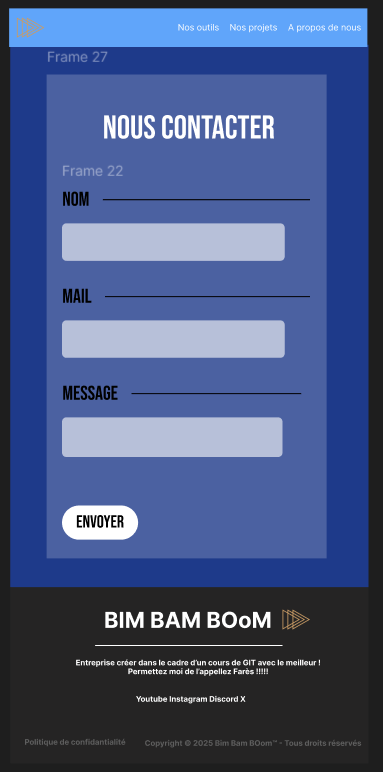
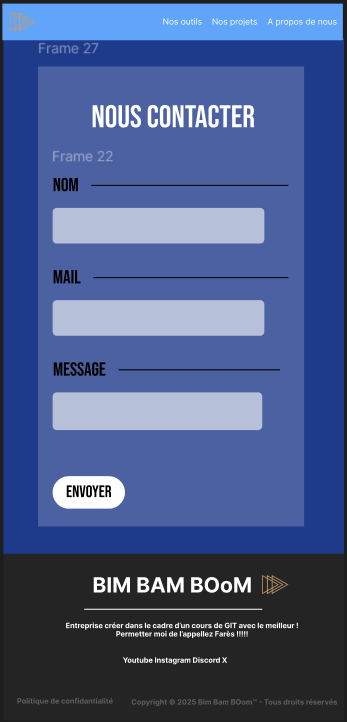
retouche img figma

Changed region(s): [[0.0, 0.0, 1.0, 0.9751], [0.0576, 0.9446, 0.317, 0.9751], [0.7493, 0.9446, 0.951, 0.9751]]

diff --git a/css/nous_contacter.css b/css/nous_contacter.css
@@ -47,10 +47,11 @@
   width: 100%;
   padding: 1rem;
   font-size: 1.6rem;
-  border: 1px solid var(--color-footer);
-  border-radius: 0.5rem;
+  border: none;
+  border-bottom: 1px solid var(--color-footer) ;
   background-color: var(--color-content);
   color: var(--color-footer);
+  background-color: transparent;
   resize: none;
 }
 
